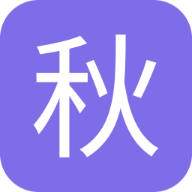
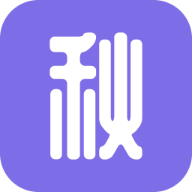
feat: layout && ThemeDataProvider component

Changed region(s): [[0.1562, 0.1562, 0.8438, 0.8438]]

diff --git a/src/layout/SideBar/SideBar.tsx b/src/layout/SideBar/SideBar.tsx
@@ -1,9 +1,32 @@
 import { Link } from 'react-router-dom';
 import clsx from 'clsx';
-import { Menu } from 'antd';
+import { Menu, type MenuProps } from 'antd';
 
-import useClassName from './styles';
+import LogoImage from '../../assets/logo.png';
 import { useBreakpoint } from '../../hooks';
+import { HomeHeart, Alarm } from '../../icons';
+import useClassName from './styles';
+
+type MenuItem = Required<MenuProps>['items'][number];
+
+const menuItems: MenuItem[] = [
+  {
+    type: 'group',
+    label: '管理',
+    children: [
+      {
+        label: <Link to="/">帮派成员</Link>,
+        key: 'members',
+        icon: <HomeHeart />,
+      },
+      {
+        label: <Link to="/activity">帮派活动</Link>,
+        key: 'activities',
+        icon: <Alarm />,
+      },
+    ],
+  },
+];
 
 function SideBar() {
   const className = useClassName();
@@ -16,28 +39,14 @@ function SideBar() {
   return (
     <div className={clsx('layout-sideBar', className)}>
       <div>
-        <div className="header">千秋几世</div>
+        <div className="header">
+          <div className="logo">
+            <img src={LogoImage} alt="秋" />
+          </div>
+          <div>千秋几世</div>
+        </div>
         <div className="menu">
-          <Menu
-            mode="vertical"
-            selectedKeys={['members']}
-            items={[
-              {
-                type: 'group',
-                label: '管理',
-                children: [
-                  {
-                    label: <Link to="/">帮派成员</Link>,
-                    key: 'members',
-                  },
-                  {
-                    label: '帮派活动',
-                    key: 'activities',
-                  },
-                ],
-              },
-            ]}
-          />
+          <Menu mode="vertical" selectedKeys={['members']} items={menuItems} />
         </div>
       </div>
     </div>

diff --git a/src/App.tsx b/src/App.tsx
@@ -9,15 +9,18 @@ import Layout from './layout';
 import createTheme from './theme/createTheme';
 
 import { MessageProvider } from './context/Message';
-import { useAppSelector } from './app/hooks';
+import BlankPage from './components/BlankPage';
+import { useThemeData } from './context/ThemeData';
 
 const Auth = Loadable(React.lazy(() => import('./features/auth')));
 const Members = Loadable(React.lazy(() => import('./features/members')));
 
 function App() {
-  const themeMode = useAppSelector((state) => state.theme.mode);
+  const {
+    themeData: { mode, compact, colorPrimary },
+  } = useThemeData();
 
-  const theme = createTheme(themeMode);
+  const theme = createTheme(mode, compact, colorPrimary);
 
   return (
     <ConfigProvider theme={theme}>
@@ -29,6 +32,10 @@ function App() {
               <Route element={<Layout />}>
                 <Route element={<AuthGuard />}>
                   <Route index element={<Members />} />
+                  <Route
+                    path="activity"
+                    element={<BlankPage>活动</BlankPage>}
+                  />
                 </Route>
               </Route>
               <Route path="login" element={<Auth />} />

diff --git a/src/layout/Header/Header.tsx b/src/layout/Header/Header.tsx
@@ -3,19 +3,17 @@ import clsx from 'clsx';
 
 import useClassName from './styles';
 import { Sun, Moon } from '../../icons';
-import { useAppDispatch, useAppSelector } from '../../app/hooks';
-import { switchTheme } from '../../app/themeSlice';
+import { useThemeData } from '../../context/ThemeData';
 
 function Header() {
   const className = useClassName();
-  const dispatch = useAppDispatch();
-  const themeMode = useAppSelector((state) => state.theme.mode);
+  const { themeData, changeThemeData } = useThemeData();
 
   const handleClick = () => {
-    if (themeMode === 'light') {
-      dispatch(switchTheme('dark'));
+    if (themeData.mode === 'dark') {
+      changeThemeData({ mode: 'light' });
     } else {
-      dispatch(switchTheme('light'));
+      changeThemeData({ mode: 'dark' });
     }
   };
 
@@ -23,7 +21,7 @@ function Header() {
     <header className={clsx('layout-header', className)}>
       <div>
         <Button
-          icon={themeMode === 'light' ? <Moon /> : <Sun />}
+          icon={themeData.mode === 'light' ? <Moon /> : <Sun />}
           onClick={handleClick}
         />
       </div>

diff --git a/src/context/ThemeData/Provider.tsx b/src/context/ThemeData/Provider.tsx
@@ -1,0 +1,36 @@
+import { useReducer } from 'react';
+
+import { type ThemeData, initialState, reducer } from './reducer';
+import {
+  type Actions,
+  changeThemeData as changeThemeDataAction,
+} from './actions';
+import { ThemeDataContext } from './context';
+
+export type ThemeDataProviderProps = React.PropsWithChildren<
+  Partial<ThemeData>
+>;
+
+/**
+ * ThemeData Provider
+ * @param props
+ * @returns
+ */
+function ThemeDataProvider({ children, ...restProps }: ThemeDataProviderProps) {
+  const [state, dispatch] = useReducer<React.Reducer<ThemeData, Actions>>(
+    reducer,
+    { ...initialState, ...restProps },
+  );
+
+  const changeThemeData = (themeData: Partial<ThemeData>) => {
+    dispatch(changeThemeDataAction(themeData));
+  };
+
+  return (
+    <ThemeDataContext.Provider value={{ themeData: state, changeThemeData }}>
+      {children}
+    </ThemeDataContext.Provider>
+  );
+}
+
+export default ThemeDataProvider;

diff --git a/src/index.tsx b/src/index.tsx
@@ -3,13 +3,13 @@ import { createRoot } from 'react-dom/client';
 import { Provider } from 'react-redux';
 import { store } from './app/store';
 import App from './App';
+import { ThemeDataProvider } from './context/ThemeData';
 // import reportWebVitals from './reportWebVitals';
 // import './wdyr';
 import '@fontsource/zcool-qingke-huangyou';
 import '@fontsource/noto-sans-sc';
 
 function prepare() {
-  console.log('env: ', process.env);
   if (process.env.REACT_APP_NODE_ENV === 'development') {
     const { worker } = require('./__mocks__/browser');
     return worker.start({ onUnhandledRequest: 'warn' });
@@ -23,7 +23,9 @@ prepare().then(() => {
   root.render(
     <React.StrictMode>
       <Provider store={store}>
-        <App />
+        <ThemeDataProvider>
+          <App />
+        </ThemeDataProvider>
       </Provider>
     </React.StrictMode>,
   );

diff --git a/src/layout/SideBar/styles.ts b/src/layout/SideBar/styles.ts
@@ -24,7 +24,6 @@ const useClassName = unstable_makeStyles((token) => ({
     }),
     '& .header': {
       color: '#fff',
-      height: 48,
       display: 'flex',
       alignItems: 'center',
       justifyContent: 'center',
@@ -33,8 +32,20 @@ const useClassName = unstable_makeStyles((token) => ({
         borderBottom: `1px solid ${token.colorBorder}`,
       }),
       fontFamily: 'ZCOOL QingKe HuangYou',
-      fontSize: 24,
+      fontSize: 32,
       marginBottom: 24,
+      paddingTop: 16,
+      paddingBottom: 16,
+      userSelect: 'none',
+      '& .logo': {
+        width: 34,
+        height: 34,
+        marginRight: 8,
+        '& img': {
+          width: '100%',
+          height: 'auto',
+        },
+      },
     },
     '& .menu': {
       paddingLeft: 8,

diff --git a/src/theme/createTheme.ts b/src/theme/createTheme.ts
@@ -2,7 +2,6 @@ import { theme } from 'antd';
 import { ThemeConfig } from 'antd/es/config-provider/context';
 import { type MapToken, type SeedToken } from 'antd/es/theme/interface';
 import { darkAlgorithm, defaultAlgorithm } from './algorithm';
-import { colorPrimary } from './token';
 import ComponentOverrides from './overrides';
 
 declare module 'antd/es/theme/interface/maps' {
@@ -24,6 +23,7 @@ export type ThemeMode = 'dark' | 'light';
 function createTheme(
   mode: ThemeMode = 'light',
   compact: boolean = false,
+  colorPrimary: string = theme.defaultSeed.colorPrimary,
 ): ThemeConfig {
   const algorithm = [
     defaultAlgorithm,

diff --git a/src/layout/Content/styles.ts b/src/layout/Content/styles.ts
@@ -1,0 +1,27 @@
+import { unstable_makeStyles } from '../../hooks';
+
+const useClassName = unstable_makeStyles((token) => ({
+  display: 'flex',
+  flex: '1 1 auto',
+  maxWidth: '100%',
+  paddingTop: 48,
+  [`@media (min-width: ${token.screenXL}px)`]: {
+    paddingLeft: 280,
+  },
+  '& > div': {
+    display: 'flex',
+    flex: '1 1 auto',
+    flexDirection: 'column',
+    width: '100%',
+
+    '& > main': {
+      flexGrow: 1,
+      paddingTop: 16,
+      paddingBlock: 16,
+      paddingLeft: 16,
+      paddingRight: 16,
+    },
+  },
+}));
+
+export default useClassName;

diff --git a/src/context/ThemeData/reducer.ts b/src/context/ThemeData/reducer.ts
@@ -1,0 +1,27 @@
+import { Actions } from './actions';
+
+export interface ThemeData {
+  mode: 'dark' | 'light';
+  compact: boolean;
+  colorPrimary: string;
+}
+
+export const initialState: ThemeData = {
+  mode: 'light',
+  compact: false,
+  colorPrimary: '#00b96b',
+};
+
+export function reducer(state: ThemeData, action: Actions) {
+  switch (action.type) {
+    case 'CHANGE_THEME_DATA': {
+      return {
+        ...state,
+        ...action.payload,
+      };
+    }
+    default: {
+      return state;
+    }
+  }
+}

diff --git a/src/layout/Content/Content.tsx b/src/layout/Content/Content.tsx
@@ -1,0 +1,20 @@
+import { PropsWithChildren } from 'react';
+import clsx from 'clsx';
+
+import Container from '../../components/Container';
+import useClassName from './styles';
+
+function Content({ children }: PropsWithChildren) {
+  const className = useClassName();
+  return (
+    <div className={clsx('layout-content', className)}>
+      <div>
+        <main>
+          <Container>{children}</Container>
+        </main>
+      </div>
+    </div>
+  );
+}
+
+export default Content;

diff --git a/src/layout/Header/styles.ts b/src/layout/Header/styles.ts
@@ -14,8 +14,10 @@ const useClassName = unstable_makeStyles((token) => ({
   left: 'auto',
   right: 0,
   backgroundColor: token.colorBgContainer,
-  ...(token.mode !== 'dark' && {
-    boxShadow: 'rgb(100 116 139 / 12%) 0px 1px 4px',
+  boxShadow: 'rgb(100 116 139 / 12%) 0px 1px 4px',
+  ...(token.mode === 'dark' && {
+    boxShadow: 'none',
+    borderBottom: `1px solid ${token.colorBorder}`,
   }),
   '& > div': {
     position: 'relative',

diff --git a/src/layout/Layout.tsx b/src/layout/Layout.tsx
@@ -3,6 +3,7 @@ import clsx from 'clsx';
 
 import Header from './Header';
 import SideBar from './SideBar';
+import Content from './Content';
 import useClassName from './styles';
 
 function Layout() {
@@ -12,7 +13,9 @@ function Layout() {
     <div className={clsx('layout', className)}>
       <SideBar />
       <Header />
-      <Outlet />
+      <Content>
+        <Outlet />
+      </Content>
     </div>
   );
 }
